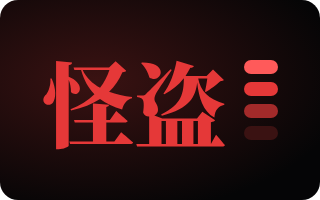
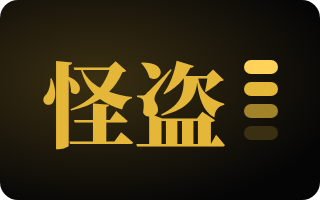
feat: Kaitō pasa a oro y Sumi a jade apagado, para que no se confundan con los rojos

diff --git a/README.md b/README.md
@@ -55,8 +55,8 @@ Cada tema cambia **todo** a la vez: colores, fondo animado, kanji, fetch, login 
     <td align="center"><b>Crimson Ink</b><br>el de la captura de arriba<br>(negro tinta y carmesí)</td>
   </tr>
   <tr>
-    <td align="center"><img src="dotfiles/.local/share/trucha-os/thumbs/kaito.png" width="250" alt="Tema Kaitō"><br><b>Kaitō</b> · rojo puro, blanco y negro de cómic</td>
-    <td align="center"><img src="dotfiles/.local/share/trucha-os/thumbs/sumi.png" width="250" alt="Tema Sumi"><br><b>Sumi</b> · el sobrio: gris pizarra apagado</td>
+    <td align="center"><img src="dotfiles/.local/share/trucha-os/thumbs/kaito.png" width="250" alt="Tema Kaitō"><br><b>Kaitō</b> · oro robado sobre negro de cómic</td>
+    <td align="center"><img src="dotfiles/.local/share/trucha-os/thumbs/sumi.png" width="250" alt="Tema Sumi"><br><b>Sumi</b> · el sobrio: jade apagado</td>
   </tr>
 </table>
 
@@ -328,7 +328,7 @@ Lo que deriva de ellos lo regenera `scripts/gen-crimson-assets.py`: el login de 
    | Campo | Para qué |
    |---|---|
    | `accent_hue` | Tono del acento |
-   | `accent_sat` | Opcional: menos de 1 apaga el acento (Sumi usa 0.3) |
+   | `accent_sat` | Opcional: menos de 1 apaga el acento (Sumi usa 0.45) |
    | `kanji`, `kana` | El kanji vertical y su lectura |
    | `dim` | Oscurecer el fondo |
    | `positions` | Opcional: mover widgets si el personaje los tapa |
